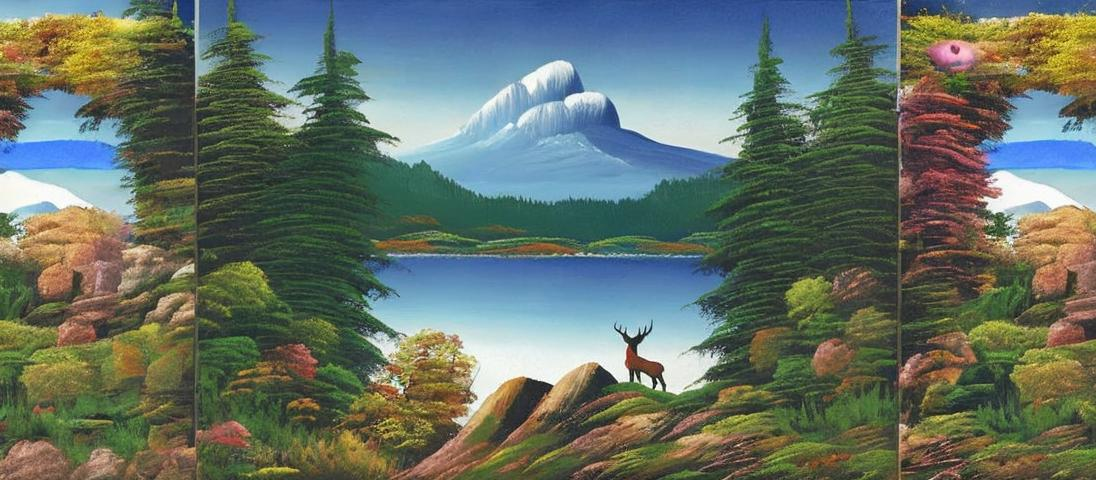
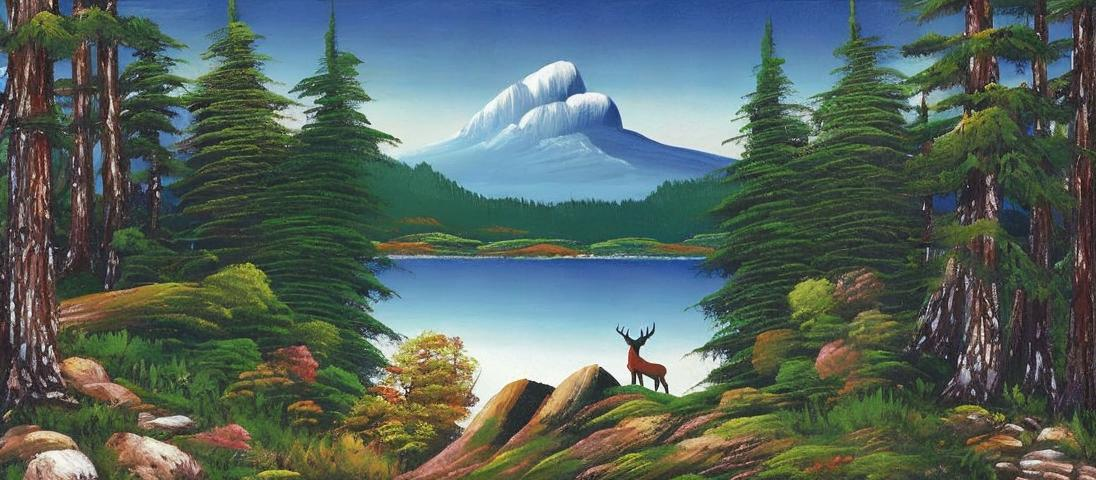
fixed outpaint

diff --git a/utils/inpaint.py b/utils/inpaint.py
@@ -1,41 +1,68 @@
-from PIL import Image
-import numpy as np
+# inpaint_utils.py
+from PIL import Image, ImageOps, ImageFilter
 import torch
 from diffusers import StableDiffusionInpaintPipeline
 
-def inpaint_image(image_path: str,
-                  mask_path: str,
-                  prompt: str,
-                  output_path: str = "inpainted_output.jpg"):
-    # load model once
-    device = "cuda" if torch.cuda.is_available() else "cpu"
+def pad_and_create_mask_reflect(
+    image: Image.Image,
+    left: int, right: int,
+    top: int, bottom: int,
+    feather: int = 25
+) -> (Image.Image, Image.Image):
+    """
+    Mirror-pad `image` on each side, then build a mask that’s white
+    in the padded regions and black over the original, feathered by `feather` px.
+    """
+    W, H = image.size
+    new_W, new_H = W + left + right, H + top + bottom
+
+    padded = Image.new("RGB", (new_W, new_H))
+    padded.paste(image, (left, top))
+    padded.paste(image.crop((0,0,left,H)).transpose(Image.FLIP_LEFT_RIGHT), (0, top))
+    padded.paste(image.crop((W-right,0,W,H)).transpose(Image.FLIP_LEFT_RIGHT), (left+W, top))
+    padded.paste(padded.crop((0, top, new_W, top+top)).transpose(Image.FLIP_TOP_BOTTOM), (0,0))
+    padded.paste(padded.crop((0, top+H-bottom, new_W, top+H)).transpose(Image.FLIP_TOP_BOTTOM), (0, top+H))
+
+    mask = Image.new("L", (new_W, new_H), 255)
+    mask.paste(0, (left, top, left+W, top+H))
+
+    mask = mask.filter(ImageFilter.GaussianBlur(radius=feather))
+    return padded, mask
+
+def inpaint_image(
+    image: Image.Image,
+    mask: Image.Image,
+    prompt: str,
+    guidance_scale: float = 10.0,
+    steps: int = 50,
+    device: str = None
+) -> Image.Image:
+    """
+    Runs SD inpainting on `image` using `mask` and returns the result.
+    """
+    device = device or ("cuda" if torch.cuda.is_available() else "cpu")
+
     pipe = StableDiffusionInpaintPipeline.from_pretrained(
         "stabilityai/stable-diffusion-2-inpainting",
         torch_dtype=torch.float16 if device=="cuda" else torch.float32
     ).to(device)
+    pipe.feature_extractor.do_resize = False
+    pipe.feature_extractor.size = None
     pipe.safety_checker = None
 
-    # load _without_ any resize
-    rgb_img  = Image.open(image_path).convert("RGB")
-    mask_img = Image.open(mask_path).convert("L")
+    w, h = image.size
+    w, h = w - w % 8, h - h % 8
+    img_crop = image.crop((0,0,w,h))
+    mask_crop = mask.crop((0,0,w,h))
 
-    # ensure dimensions are multiples of 8
-    w, h = rgb_img.size
-    w -= w % 8; h -= h % 8
-
-    # pass your own size into the pipeline
-    result = pipe(
+    out = pipe(
         prompt=prompt,
-        image=rgb_img,
-        mask_image=mask_img,
+        image=img_crop,
+        mask_image=mask_crop,
         height=h,
         width=w,
-        guidance_scale=7.5,
-        num_inference_steps=50,
+        guidance_scale=guidance_scale,
+        num_inference_steps=steps,
     ).images[0]
 
-    result.save(output_path)
-    print(f"✅ Saved to {output_path}")
-
-if __name__ == "__main__":
-    main()
+    return out

diff --git a/check_inpaint.py b/check_inpaint.py
@@ -1,42 +1,32 @@
+# run_inpaint.py
 from PIL import Image
-from utils.inpaint import inpaint_image
-def pad_and_create_mask(image: Image.Image,
-                        left: int, right: int,
-                        top: int, bottom: int
-                       ) -> (Image.Image, Image.Image):
-    """
-    Pads `image` on each side by the given pixel counts,
-    and returns (padded_image, mask_image) ready for Stable Diffusion inpainting.
+from inpaint import pad_and_create_mask_reflect, inpaint_image
 
-    - padded_image is RGB with white background in the new areas.
-    - mask_image is L-mode: white where you want to inpaint (the padded strips),
-      black where you want to keep the original.
-    """
-    orig_w, orig_h = image.size
-    new_w = orig_w + left + right
-    new_h = orig_h + top + bottom
+def main():
+    orig = Image.open("input.jpg").convert("RGB")
 
-    # 1) Create a white canvas and paste original
-    padded_img = Image.new("RGB", (new_w, new_h), (255, 255, 255))
-    padded_img.paste(image, (left, top))
+    padded, mask = pad_and_create_mask_reflect(
+        orig,
+        left=200, right=200,
+        top=0, bottom=0,
+        feather=30
+    )
+    padded.save("padded.jpg")
+    mask.save("padded_mask.png")
 
-    # 2) Create mask: start all white (inpaint everywhere), then black out original
-    mask_img = Image.new("L", (new_w, new_h), 255)
-    mask_img.paste(0, (left, top, left + orig_w, top + orig_h))
+    result = inpaint_image(
+        image=padded,
+        mask=mask,
+        prompt=(
+            "Continue the alpine scene: pine trees and reflective lake, "
+            "matching the original artist’s soft brush strokes, lighting and color palette"
+        ),
+        guidance_scale=11.0,
+        steps=60
+    )
 
-    return padded_img, mask_img
+    result.save("wide_out.jpg")
+    print("✅ wide_out.jpg written.")
 
-from PIL import Image
-
-# load your original
-img = Image.open("input.jpg").convert("RGB")
-
-# pad 200px on each side horizontally, none vertically
-padded, mask = pad_and_create_mask(img, left=200, right=200, top=0, bottom=0)
-
-# save out and feed into your inpaint function
-padded.save("padded.jpg")
-mask.save("padded_mask.png")
-
-# now call your existing inpaint_image:
-inpaint_image("padded.jpg", "padded_mask.png", prompt="continuation of the original image with it's style", output_path="wide_out.jpg")
+if __name__ == "__main__":
+    main()
